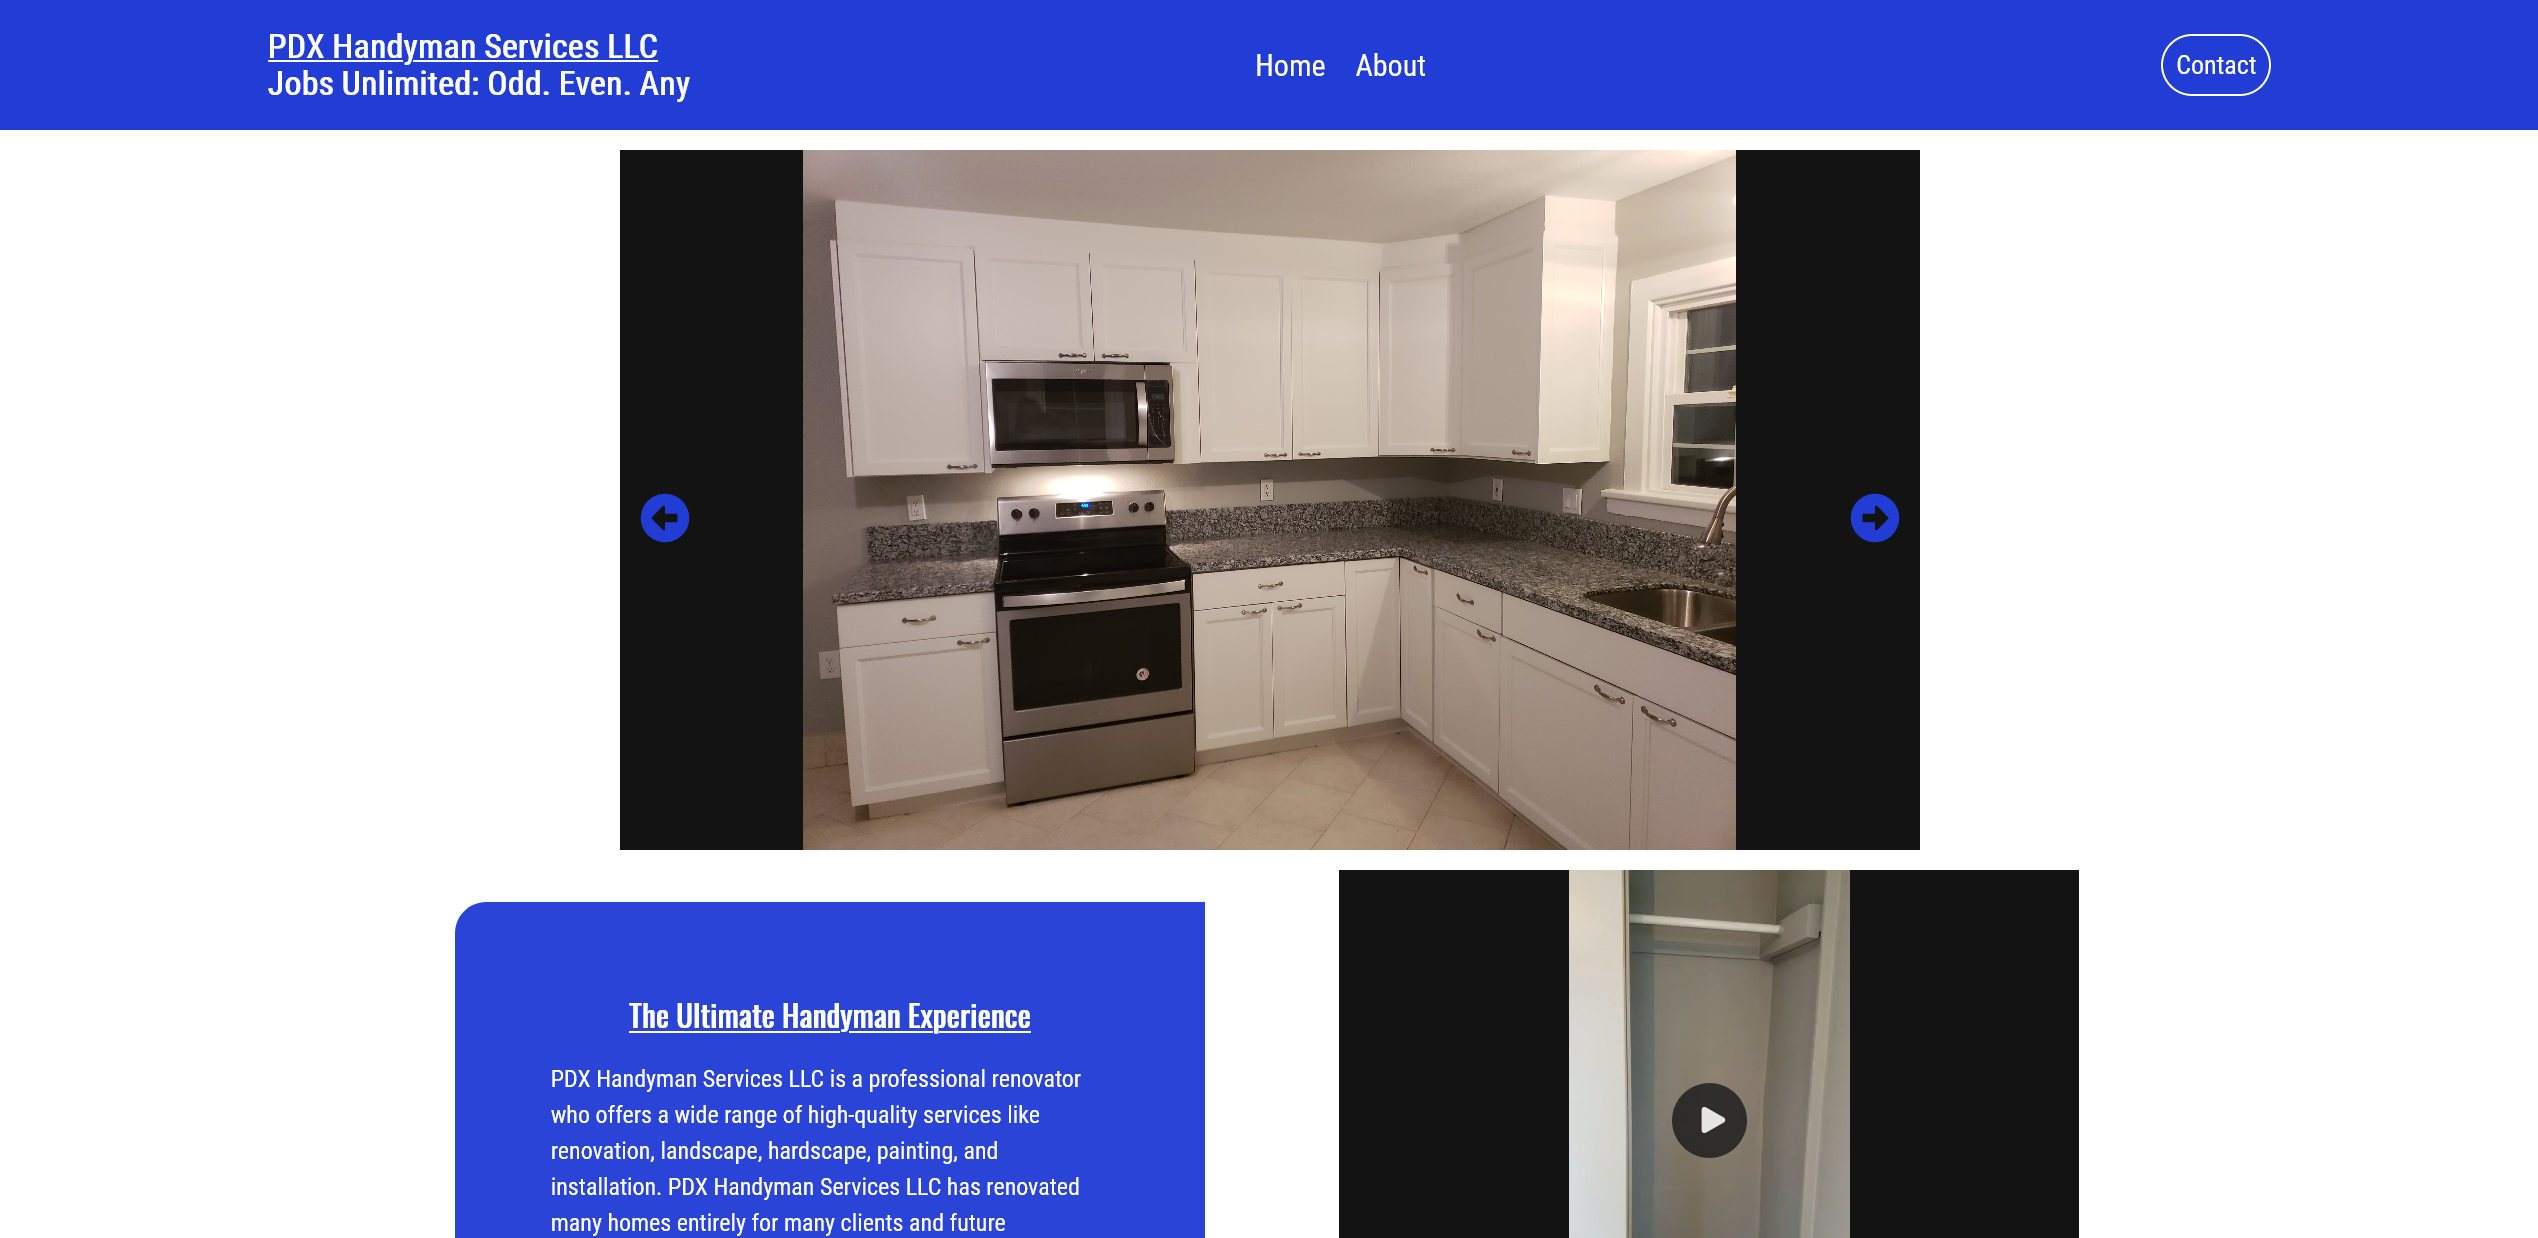
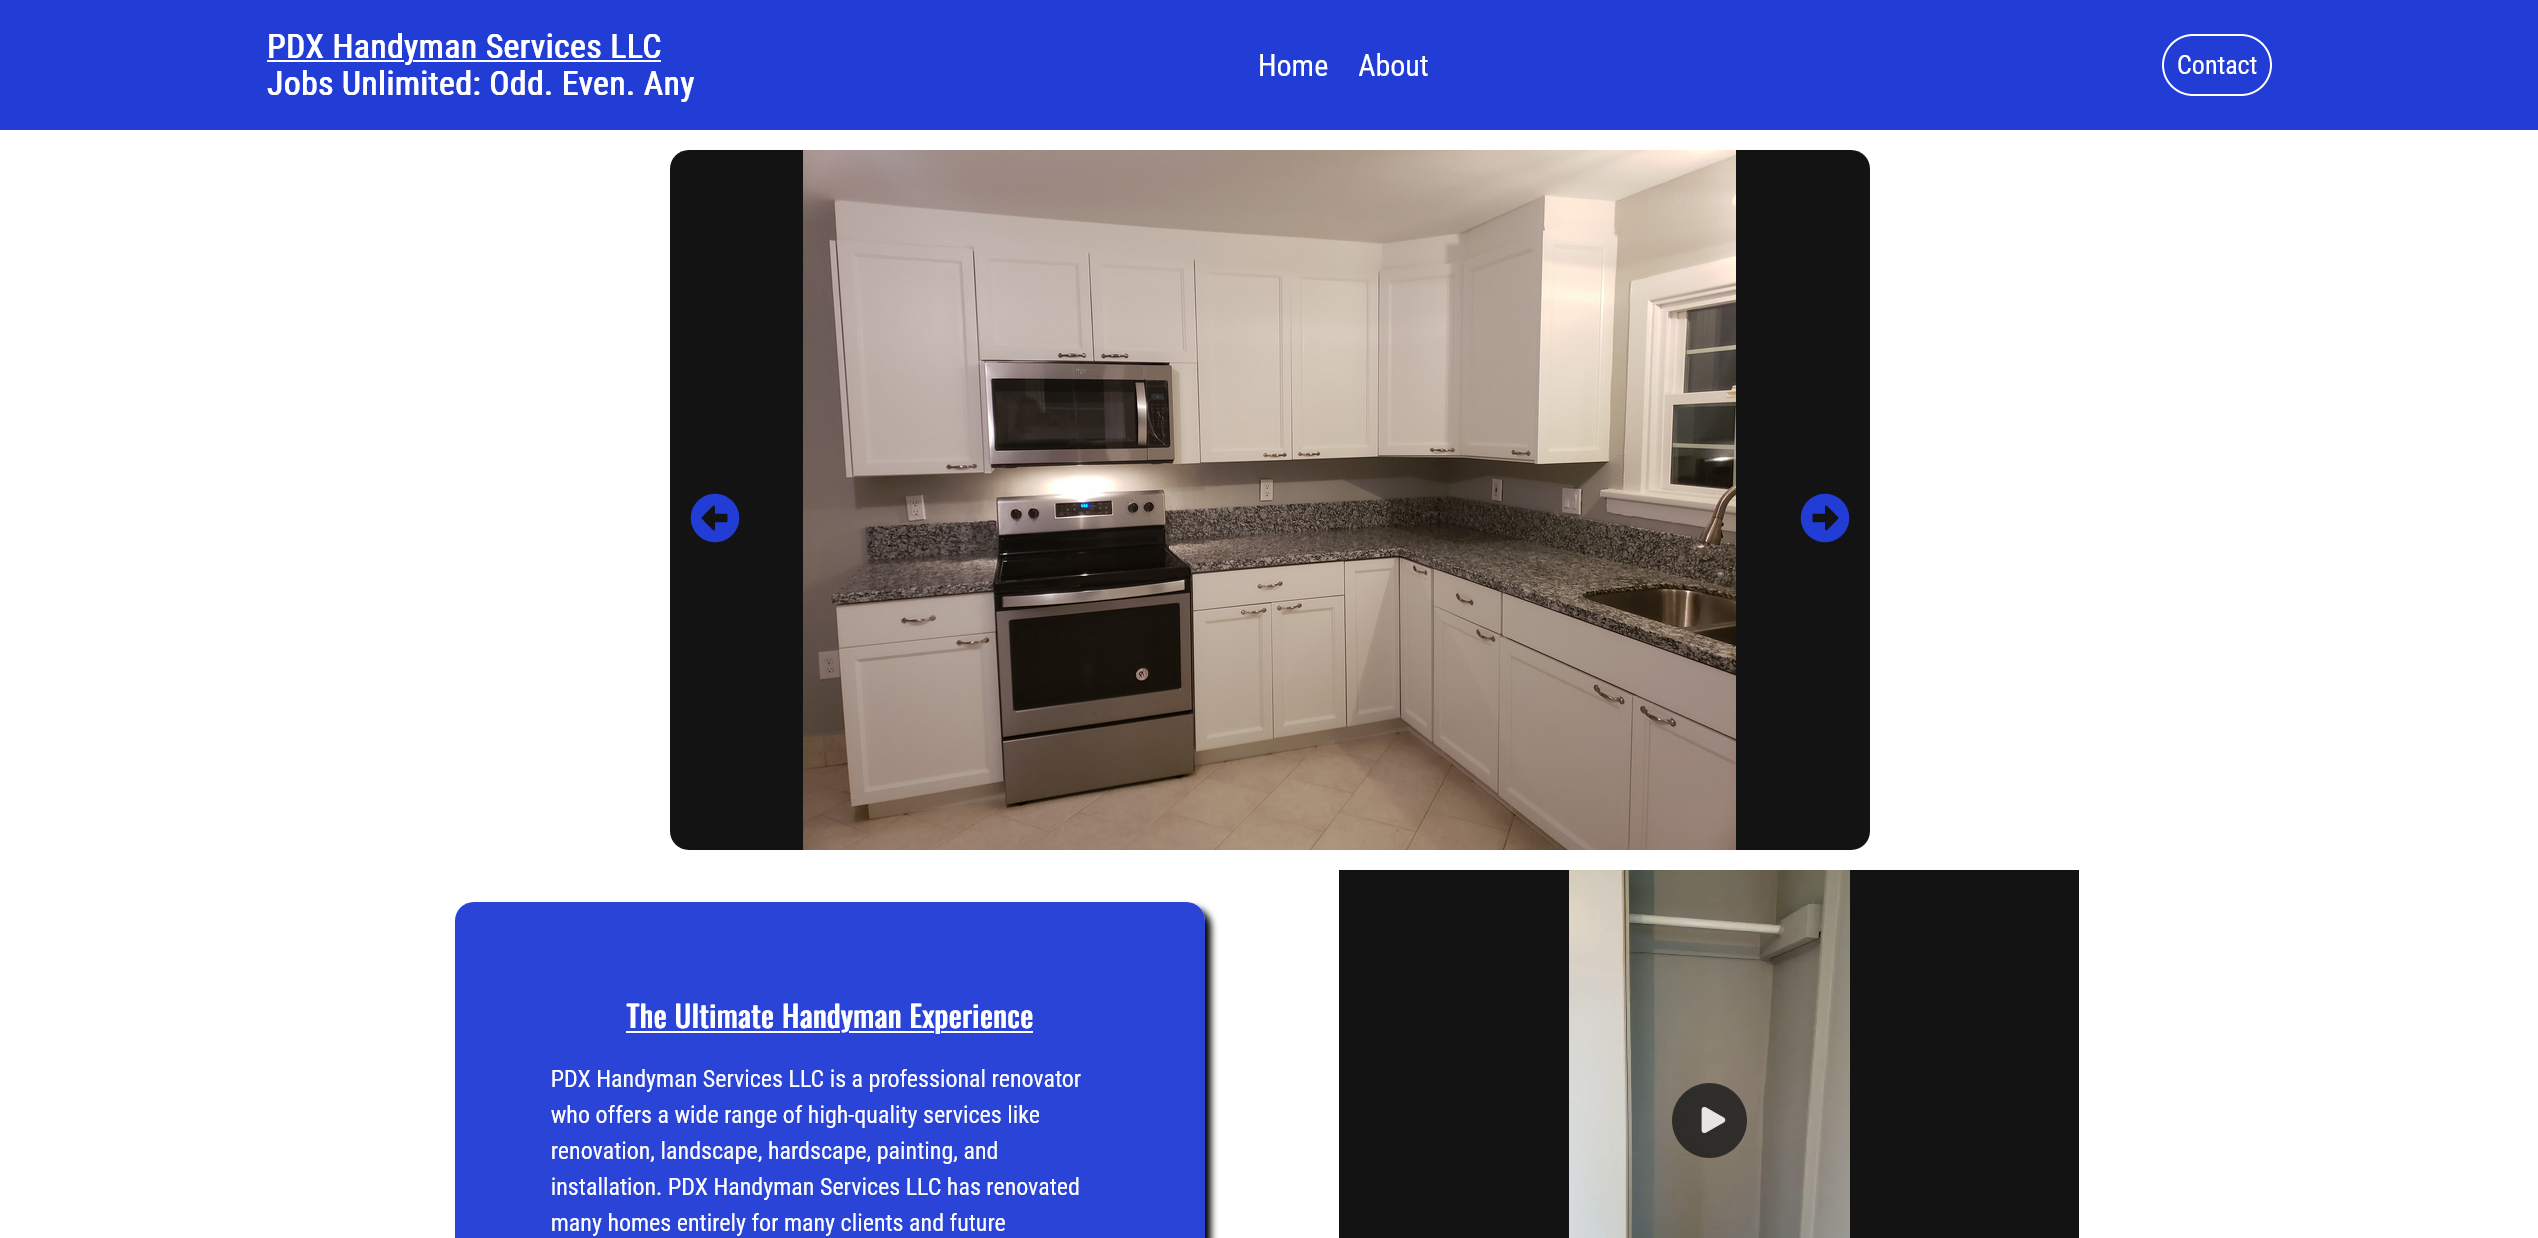
Updated CSS and Projects
I fixed the CSS to place the projects closer to each other. I updated the text on both the PDX and AITH project websites to sound better. I also replaced the pdx image to the most recent look of the website. Before this, I created a sitemap.

diff --git a/portfolio-app/src/components/projects/Pdx.js b/portfolio-app/src/components/projects/Pdx.js
@@ -16,6 +16,7 @@ function Pdx() {
             <h3 className="project-headings">Technologies Used</h3>
             <ol>
                 <li>React.js <FaReact className="reactjs"/></li>
+                <li>JSX <FaReact className="reactjs"/></li>
                 <li>HTML5 <FaHtml5 className="html"/></li>
                  <li>XML <FaCode/></li>
                 <li>CSS3 <FaCss3Alt className="css3"/></li>
@@ -24,7 +25,7 @@ function Pdx() {
         </div>
         <div className="information">
             <h3 className="project-headings">My Role</h3>
-            <p>I used React.js to create this website. I used YARN package manager and react router. On Adobe XD I designed the wireframes and mockups. In Photoshop, I edited most of the images by increasing their contrast, brightness, and by removing people or objects. I added the text that he wanted me to add, the images, and the videos. I suggested the photo slide show and where to place his business card.</p>
+            <p>I used React.js to create this website with YARN package manager and react router for the navigation. On Adobe XD I designed the wireframes and mockups. In Photoshop, I edited most of the images by increasing their contrast, brightness, and removing people or objects. I added the text that he wanted me to add, the images, and the videos. I suggested the photo slide show and where to place his business card.</p>
 
             <h3 className="project-headings">Project Difficulties</h3>
             <p>I was having trouble displaying the home page content to be side by side.</p>

diff --git a/portfolio-app/src/components/projects/Ace.js b/portfolio-app/src/components/projects/Ace.js
@@ -27,7 +27,7 @@ function Ace() {
     </div>
     <div className="information">
         <h3 className="project-headings">My Role</h3>
-        <p>I created this website with HTML5 and PHP. I also created a database in phpMyAdmin with MySQL to store all the register page submissions. On Adobe XD, I created the wireframes and mockups. I added the text from the document that was given to us by the professor, styled the website to be responsive to all devices and browsers, created the forms, database tables, and added the social media feeds.</p>
+        <p>I created this website with HTML5 and PHP. I also created a database in phpMyAdmin with MySQL to store all the form submissions. On Adobe XD, I created the wireframes and mockups. I added the text from the document that was given to us by the professor, styled the website to be responsive to all devices and browsers, created the forms, database tables, and added the social media feeds.</p>
         <h3 className="project-headings">Project Difficulties</h3>
         <p>The database wasn’t receiving the form submissions, and it wasn’t connecting.</p>
         <h3 className="project-headings">The Solution</h3>

diff --git a/portfolio-app/src/App.js b/portfolio-app/src/App.js
@@ -5,7 +5,6 @@ import Work from './Work.js'
 import About from './About.js'
 import Pdx from './components/projects/Pdx.js'
 import Ace from './components/projects/Ace.js'
-import Pht from './components/projects/Pht.js'
 import Footer from './components/Footer.js'
 
 import './App.css'
@@ -22,7 +21,6 @@ function App() {
           <Route path="About-Me" element={ <About /> } />
           <Route path="PDX-Handyman-Services-LLC" element={ <Pdx /> } />
           <Route path="Ace-in-the-Hole-Multisport-Events" element={ <Ace /> } />
-          <Route path="Portland-Historical-Tours" element={ <Pht /> } />
         </Routes>
       </main>
       <Footer />

diff --git a/portfolio-app/src/App.css b/portfolio-app/src/App.css
@@ -133,8 +133,8 @@ header #mobile-header #mobile-icons #icons-container .icon-links {
   border: solid #000000 2px;
   border-radius: 15px;
   width: 300px;
-  -webkit-box-shadow: 7px 7px 5px #000000;
-          box-shadow: 7px 7px 5px #000000;
+  -webkit-box-shadow: 7px 7px 5px #000000d8;
+          box-shadow: 7px 7px 5px #000000d8;
 }
 
 #work-content .boxes-container .box a img {
@@ -522,7 +522,7 @@ footer {
         -ms-flex-align: baseline;
             align-items: baseline;
     gap: 1em;
-    margin: 0 7em 0;
+    margin: 0 10em 0;
   }
   #work-content .boxes-container .box {
     font-size: 1.1rem;

diff --git a/portfolio-app/src/App.scss b/portfolio-app/src/App.scss
@@ -106,7 +106,7 @@ header {
             border: solid #000000 2px;
             border-radius: 15px;
             width: 300px; 
-            box-shadow: 7px 7px 5px #000000;
+            box-shadow: 7px 7px 5px #000000d8;
             a {
                 img {
                     inline-size: 100%;
@@ -455,7 +455,7 @@ footer {
             justify-content: space-around;
             align-items: baseline;
             gap: 1em;
-            margin: 0 7em 0;
+            margin: 0 10em 0;
             .box {
                 font-size: 1.1rem;
             }
